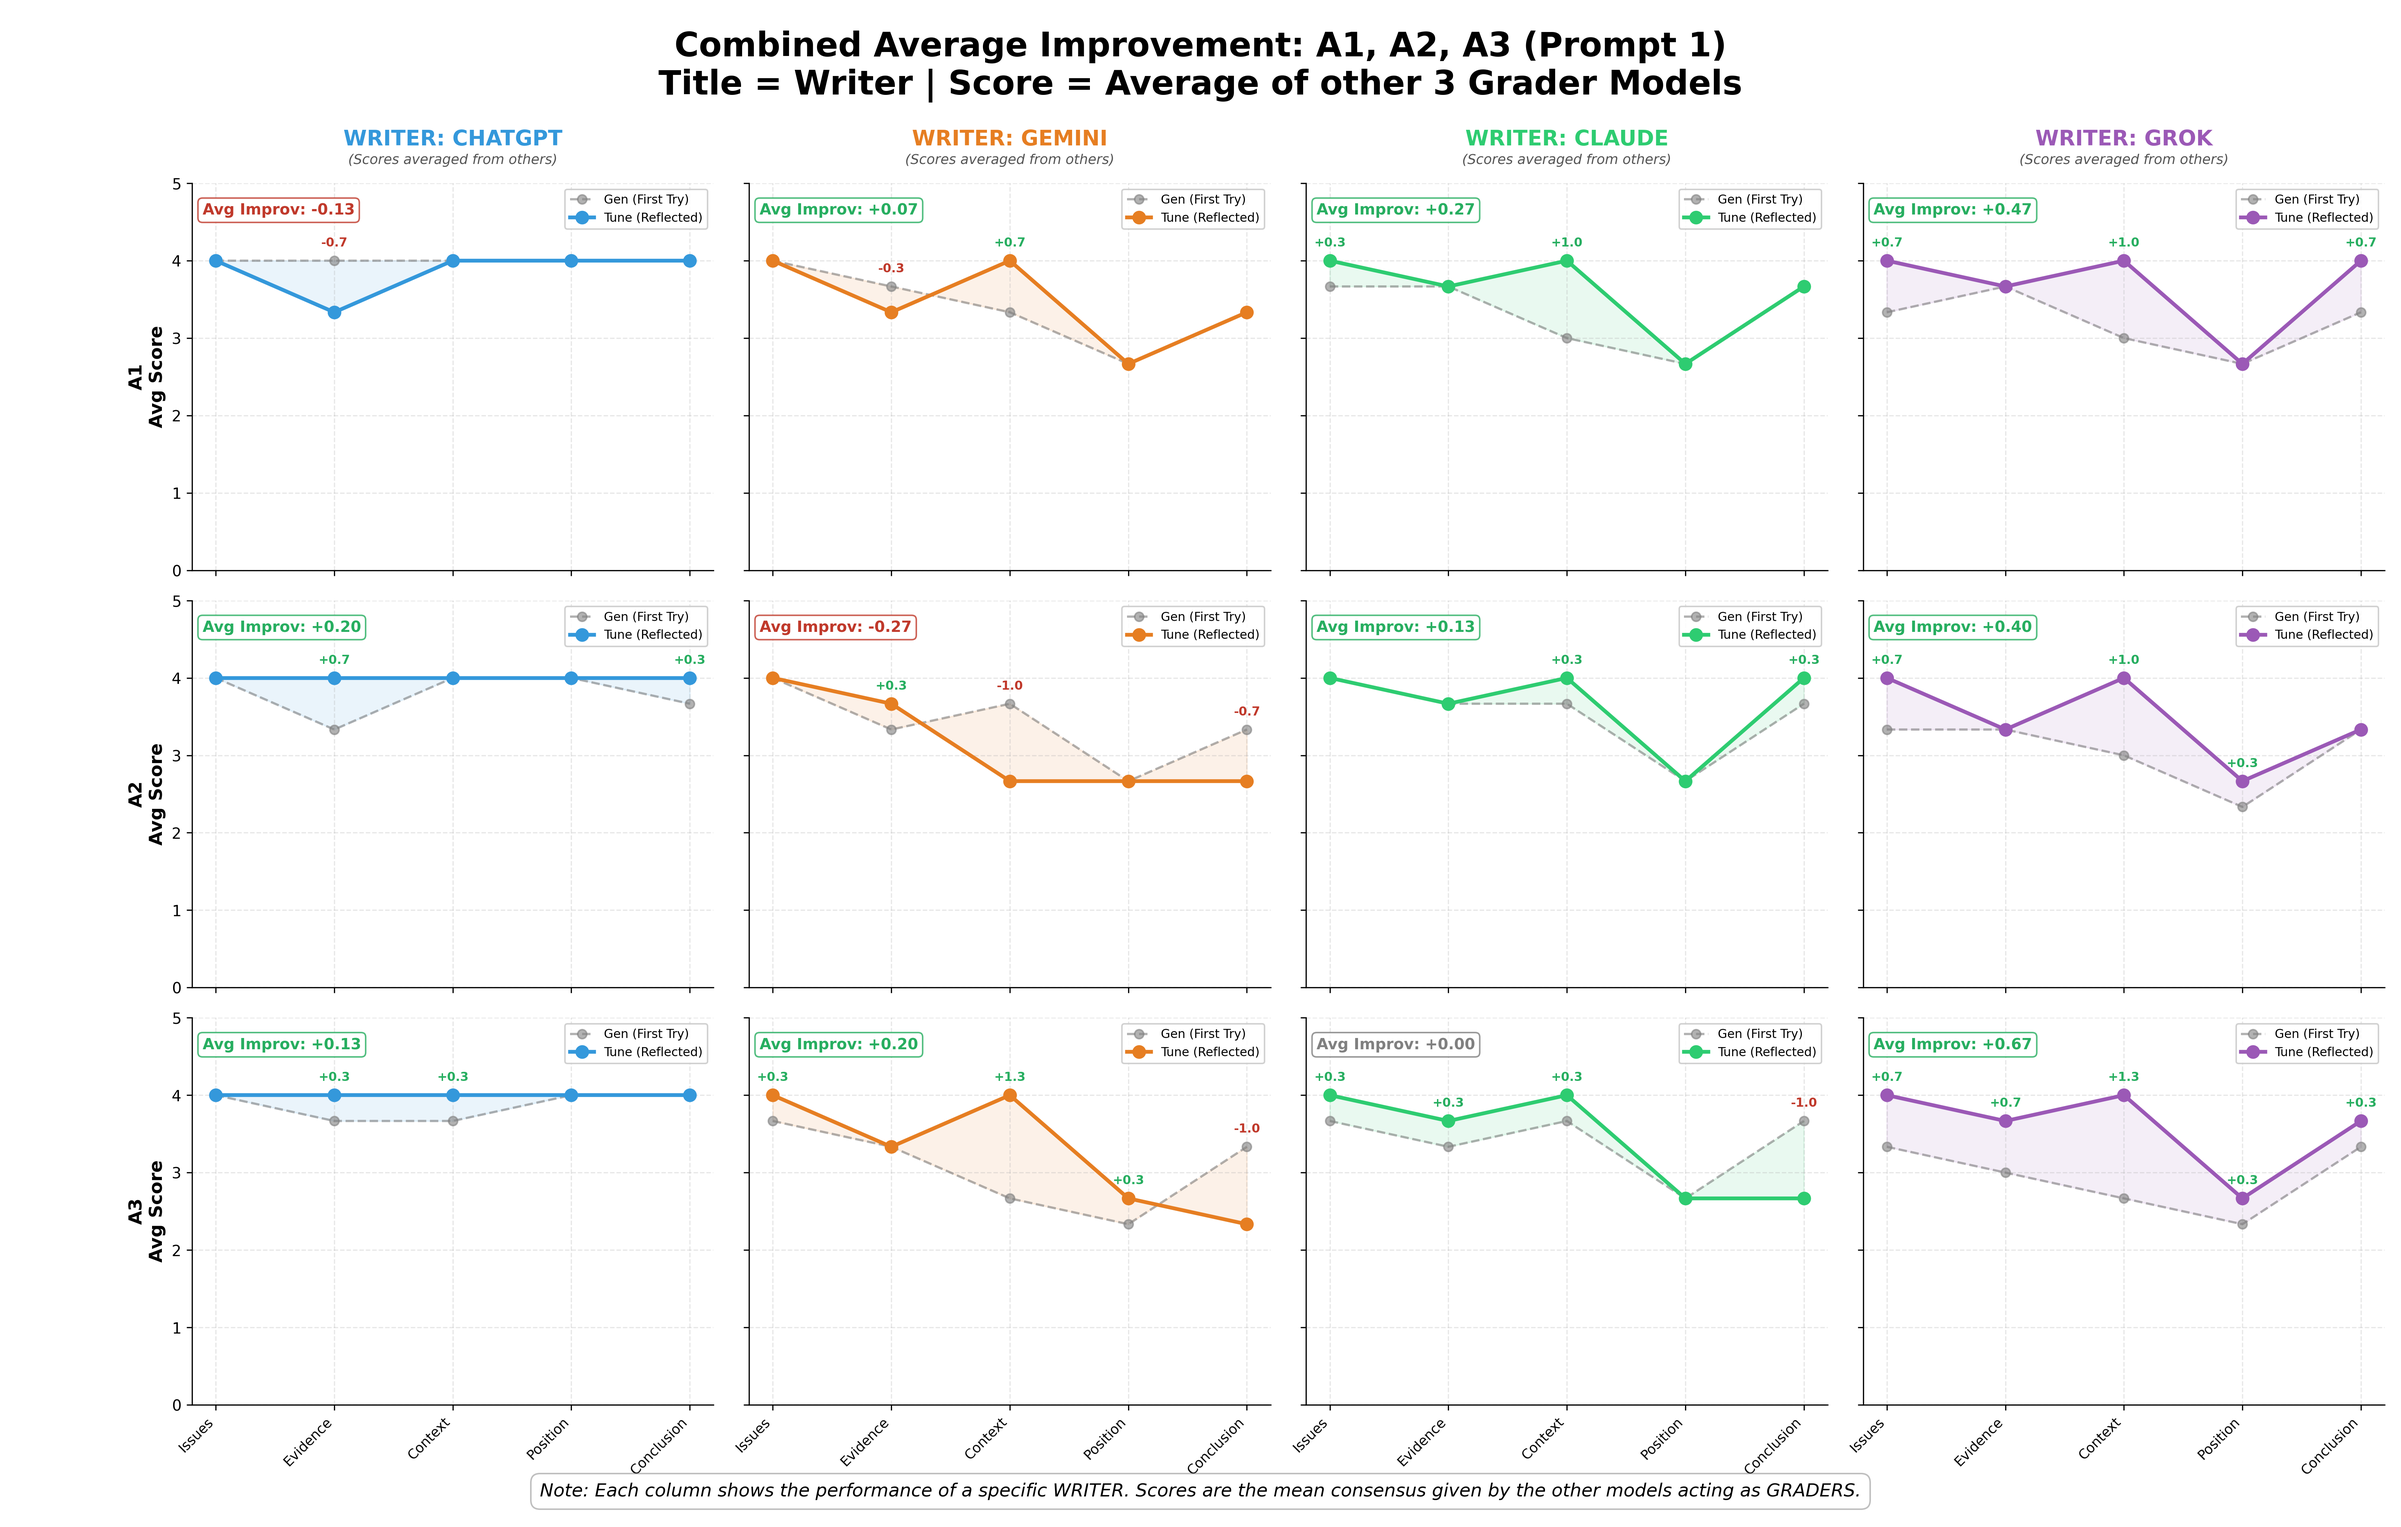
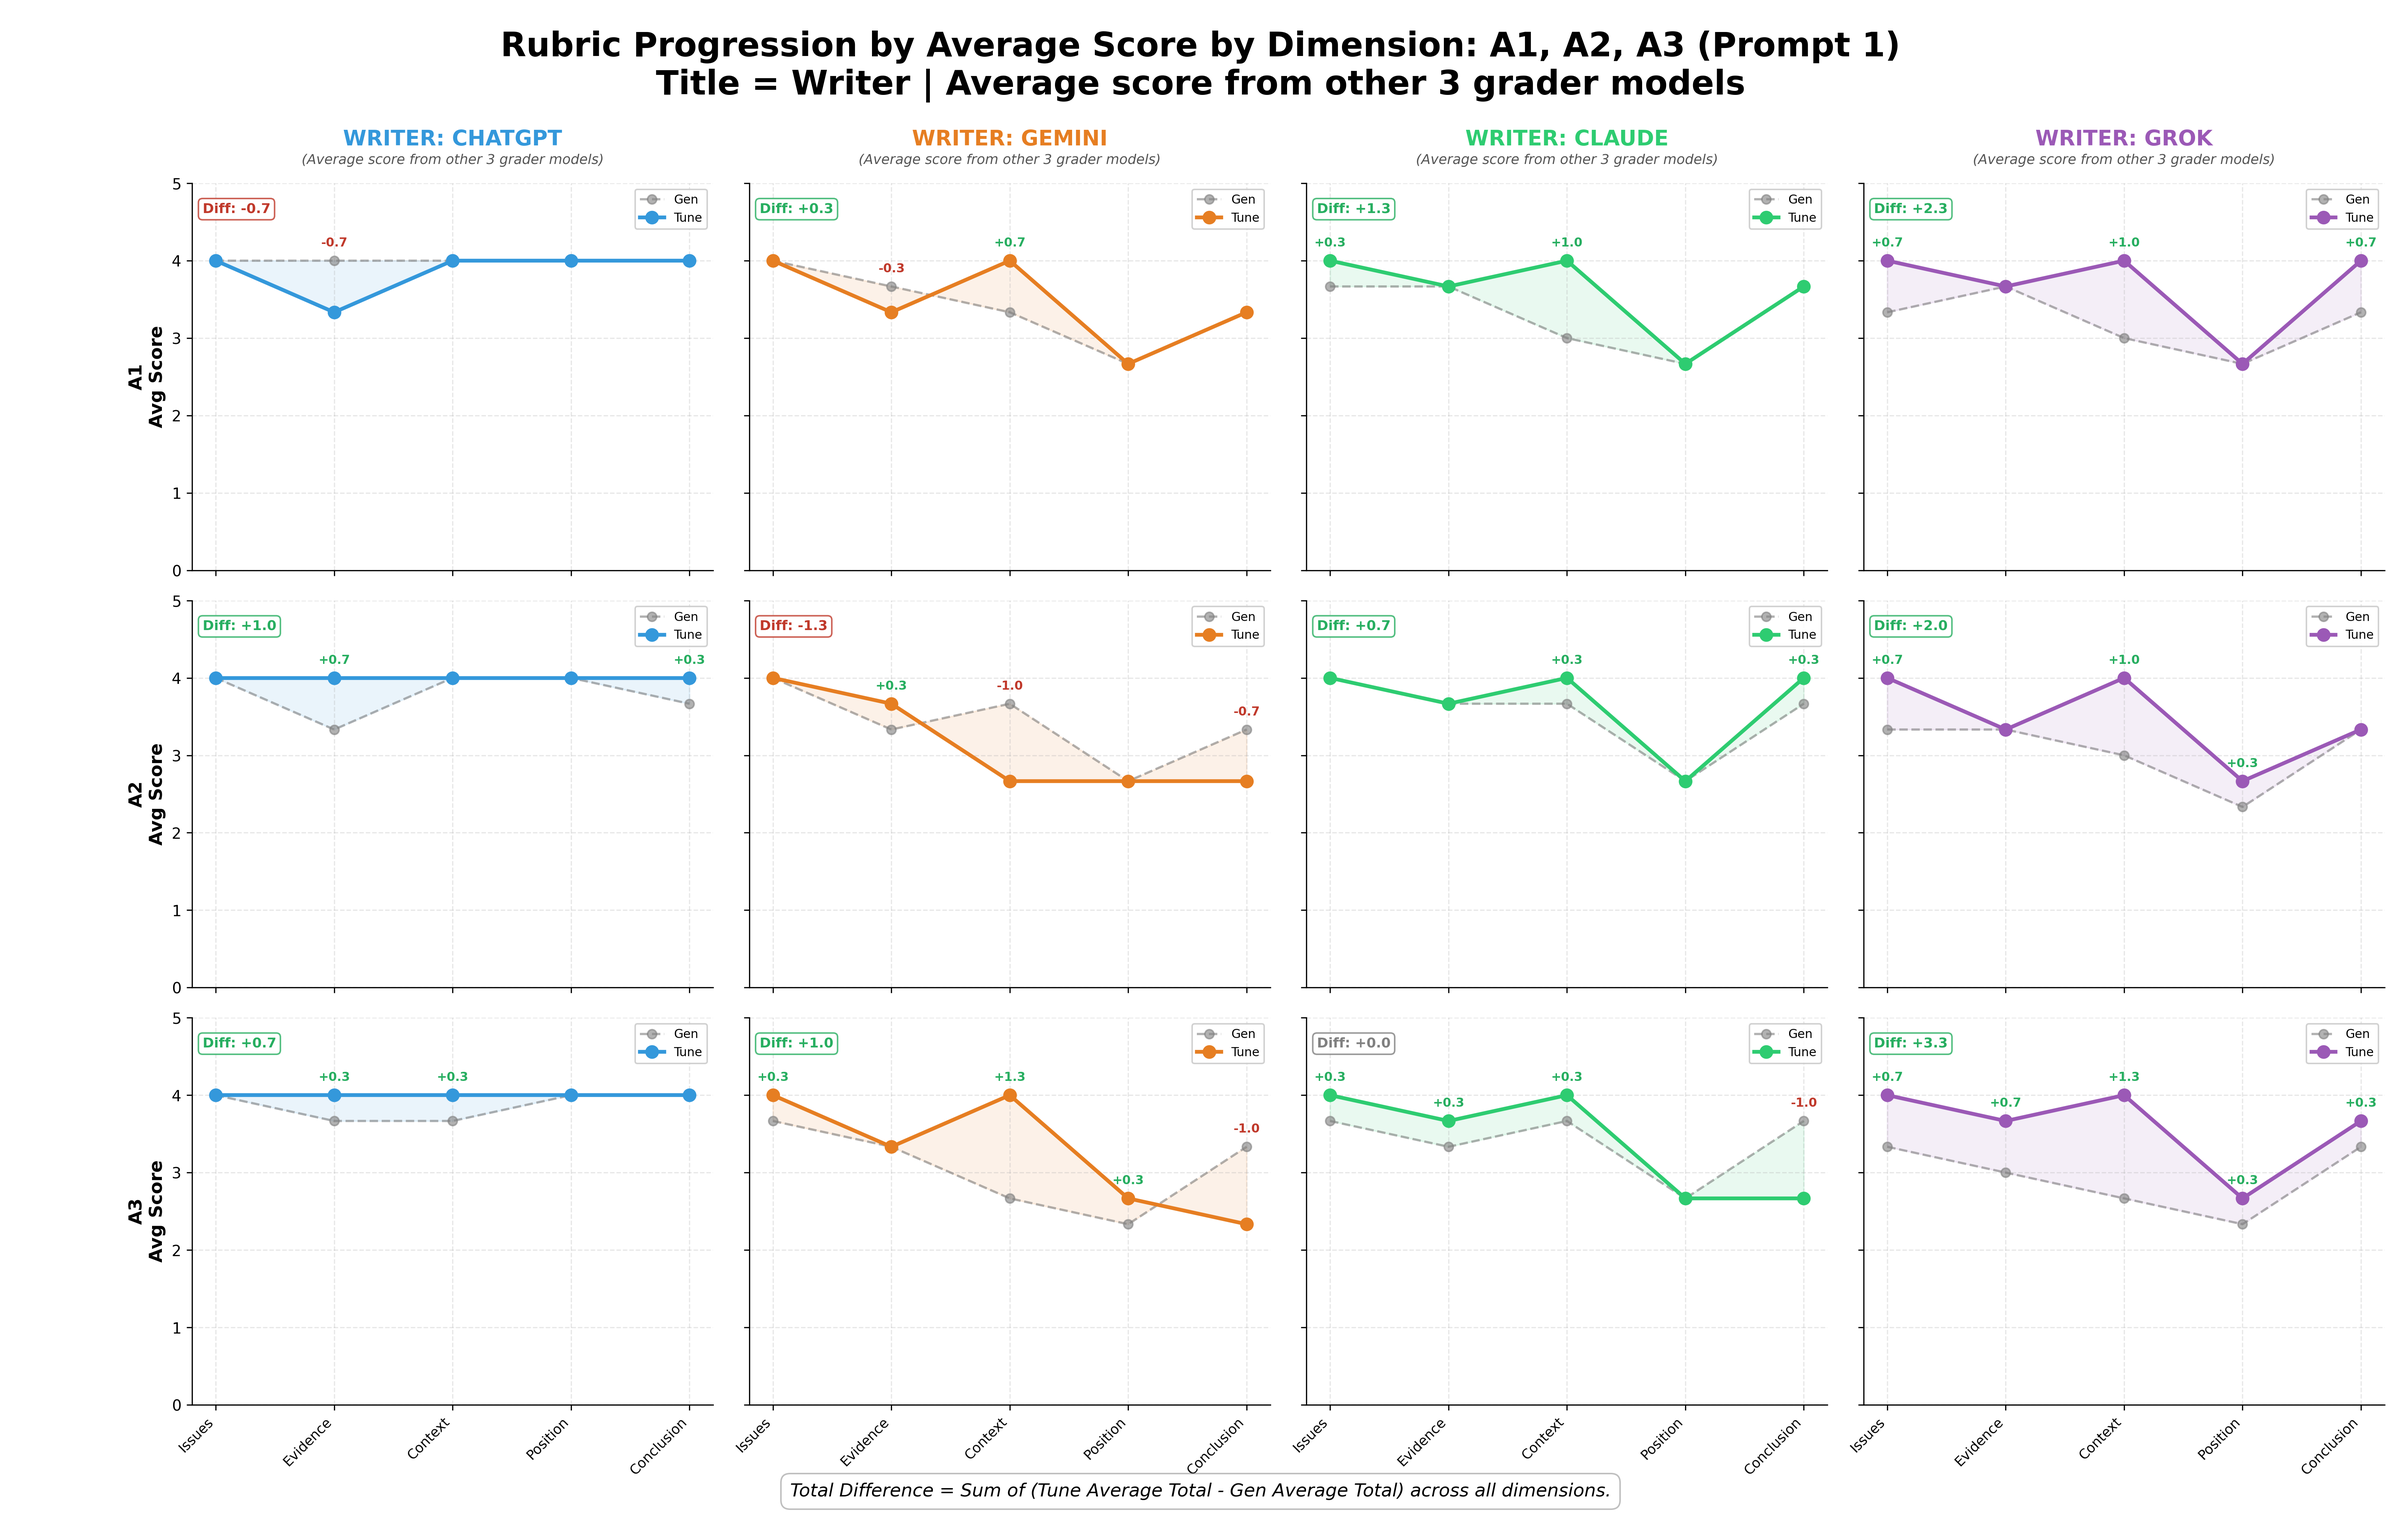
update new charts

diff --git a/src/visualization/rubric_scores.py b/src/visualization/rubric_scores.py
@@ -6,7 +6,7 @@ import numpy as np
 from pathlib import Path
 
 # Configuration
-DATA_DIR = Path('data/critical_thinking')
+DATA_DIR = Path('/Users/ramizoey/ai-assessment/data/critical_thinking')
 OUTPUT_DIR = Path('src/visualization/rubric_plots')
 ASSIGNMENTS = ['a1', 'a2', 'a3']
 WRITERS = ['chatgpt', 'gemini', 'claude', 'grok']
@@ -151,12 +151,14 @@ def _draw_avg_progression_on_axis(ax, data, writer):
     gen_avg = gen_totals / counts
     tune_avg = tune_totals / counts
     
-    # Calculate Overall Average Improvement (Summary Statistic)
-    overall_delta = np.mean(tune_avg - gen_avg)
+    # Calculate Total Score Difference (Summary Statistic)
+    sum_gen = np.sum(gen_avg)
+    sum_tune = np.sum(tune_avg)
+    overall_delta = sum_tune - sum_gen
     
     # Plot
-    line_gen, = ax.plot(x_indices, gen_avg, color='gray', linestyle='--', marker='o', alpha=0.6, label='Gen (First Try)')
-    line_tune, = ax.plot(x_indices, tune_avg, color=writer_color, linewidth=2.5, marker='o', markersize=8, label='Tune (Reflected)')
+    line_gen, = ax.plot(x_indices, gen_avg, color='gray', linestyle='--', marker='o', alpha=0.6, label='Gen')
+    line_tune, = ax.plot(x_indices, tune_avg, color=writer_color, linewidth=2.5, marker='o', markersize=8, label='Tune')
     ax.fill_between(x_indices, gen_avg, tune_avg, color=writer_color, alpha=0.1)
     
     # Annotate deltas
@@ -170,8 +172,8 @@ def _draw_avg_progression_on_axis(ax, data, writer):
 
     # Add Summary Statistic Box
     stat_color = '#27AE60' if overall_delta > 0 else ('#C0392B' if overall_delta < -0.01 else 'gray')
-    stat_text = f"Avg Improv: {overall_delta:+.2f}"
-    ax.text(0.02, 0.95, stat_text, transform=ax.transAxes, fontsize=10, fontweight='bold',
+    stat_text = f"Diff: {overall_delta:+.1f}"
+    ax.text(0.02, 0.95, stat_text, transform=ax.transAxes, fontsize=9, fontweight='bold',
             color=stat_color, verticalalignment='top', bbox=dict(facecolor='white', alpha=0.8, edgecolor=stat_color, boxstyle='round,pad=0.3'))
 
     ax.set_xticks(x_indices)
@@ -186,7 +188,7 @@ def _draw_avg_progression_on_axis(ax, data, writer):
 def plot_combined_average(prompt_num=2):
     """Combines Average Progression into a 3x4 grid (Rows=Assignments, Cols=Writers)."""
     fig, axes = plt.subplots(3, 4, figsize=(22, 14), sharex=True, sharey=True)
-    fig.suptitle(f'Combined Average Improvement: A1, A2, A3 (Prompt {prompt_num})\nTitle = Writer | Score = Average of other 3 Grader Models', fontsize=22, fontweight='bold', y=0.98)
+    fig.suptitle(f'Rubric Progression by Average Score by Dimension: A1, A2, A3 (Prompt {prompt_num})\nTitle = Writer | Average score from other 3 grader models', fontsize=22, fontweight='bold', y=0.98)
     
     for row_idx, assignment in enumerate(ASSIGNMENTS):
         data = load_data(assignment, prompt_num)
@@ -200,13 +202,13 @@ def plot_combined_average(prompt_num=2):
             # Column Title (Top row only)
             if row_idx == 0:
                 ax.set_title(f"WRITER: {writer.upper()}", fontsize=14, fontweight='bold', color=WRITER_COLORS[writer], pad=25)
-                ax.text(0.5, 1.05, "(Scores averaged from others)", transform=ax.transAxes, 
+                ax.text(0.5, 1.05, "(Average score from other 3 grader models)", transform=ax.transAxes, 
                         ha='center', fontsize=9, style='italic', color='#555555')
             
             _draw_avg_progression_on_axis(ax, data, writer)
             
     # Add a global footer/caption
-    fig.text(0.5, 0.02, "Note: Each column shows the performance of a specific WRITER. Scores are the mean consensus given by the other models acting as GRADERS.", 
+    fig.text(0.5, 0.02, "Total Difference = Sum of (Tune Average Total - Gen Average Total) across all dimensions.", 
              ha='center', fontsize=12, style='italic', bbox=dict(facecolor='white', alpha=0.5, edgecolor='gray', boxstyle='round,pad=0.5'))
 
     plt.tight_layout()
